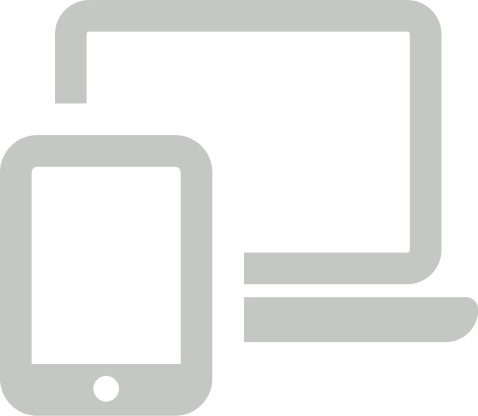
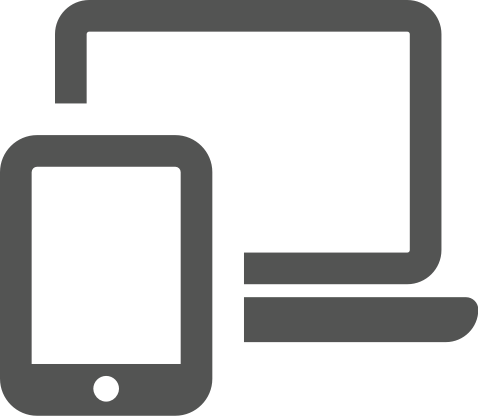
update protocol path to use protocol name

diff --git a/src/renderer/styles/containers/_device-status.scss b/src/renderer/styles/containers/_device-status.scss
@@ -1,7 +1,7 @@
 .device-icon {
   @include reset-button;
 
-  background: center / contain no-repeat url('../images/devices.png');
+  background: center / contain no-repeat url('../images/devices-dark.png');
   cursor: pointer;
   height: 3.4rem;
   margin: 0.5rem spacing('medium');
@@ -16,16 +16,18 @@
     --badge-offset: -0.4rem;
     --badge-size: 1.4rem;
     background-color: var(--color-sea-green);
-    border: 2px solid var(--color-white);
     border-radius: calc(var(--badge-size) * 0.5);
     bottom: var(--badge-offset);
+    display: flex;
+    align-items: center;
+    justify-content: center;
     color: var(--color-white);
-    display: block;
     font-size: 0.9rem;
     height: var(--badge-size);
     line-height: 1.2;
     position: absolute;
     right: var(--badge-offset);
     width: var(--badge-size);
+
   }
 }

diff --git a/src/main/data-managers/ProtocolManager.js b/src/main/data-managers/ProtocolManager.js
@@ -134,14 +134,14 @@ class ProtocolManager {
   importFile(localFilepath = '') {
     return new Promise((resolve, reject) => {
       const parsedPath = path.parse(localFilepath);
+
       if (!parsedPath.base) {
         reject(new RequestError(ErrorMessages.InvalidContainerFile));
         return;
       }
 
       const protocolName = parsedPath.name;
-      const hexName = hexDigest(protocolName);
-      const destPath = this.pathToProtocolFile(`${hexName}${parsedPath.ext}`);
+      const destPath = this.pathToProtocolFile(`${parsedPath.base}`);
       try {
         // If protocol file already exists in Server, do not allow update
         if (fs.existsSync(destPath)) {

diff --git a/src/main/data-managers/ProtocolDB.js b/src/main/data-managers/ProtocolDB.js
@@ -42,6 +42,7 @@ class ProtocolDB extends DatabaseAdapter {
    * @throws If DB save fails
    */
   save(filename, contentsDigest, metadata, { returnOldDoc = false } = {}) {
+    console.log('save', filename);
     return new Promise(async (resolve, reject) => {
       if (!filename || !contentsDigest) {
         reject(new RequestError(ErrorMessages.InvalidContainerFile));

diff --git a/src/renderer/styles/components/_server-panel.scss b/src/renderer/styles/components/_server-panel.scss
@@ -1,8 +1,9 @@
 .server-panel {
-  background-color: var(--color-cyber-grape);
+  background-color: var(--color-platinum--dark);
   padding: spacing(medium);
-  color: var(--text-light);
   width: 100%;
+  border-bottom: 0.8rem solid var(--primary);
+  color: var(--server-panel-text);
 
   &__header {
     margin: spacing(medium);

diff --git a/src/renderer/styles/architect/_theme.scss b/src/renderer/styles/architect/_theme.scss
@@ -12,6 +12,7 @@
   --text-light: var(--color-white); // actually this one is new
   --text-dark: var(--color-charcoal);
   --ring--background: var(--color-navy-taupe);
+  --server-panel-text: rgba(0, 0, 0, .5);
 
   // App Chrome
   --background-dark: var(--color-navy-taupe);

diff --git a/src/renderer/styles/components/_workspace.scss b/src/renderer/styles/components/_workspace.scss
@@ -28,9 +28,8 @@
     }
 
     &.overview-panel {
-      background-color: var(--color-platinum);
-      border-bottom: 0.8rem solid var(--primary);
-
+      color: var(--color-white);
+      background-color: var(--color-cyber-grape);
     }
   }
 }

diff --git a/src/renderer/styles/components/_instructions.scss b/src/renderer/styles/components/_instructions.scss
@@ -18,6 +18,10 @@ $block: instructions;
     background: var(--color-platinum);
     padding: spacing(large);
     border-radius: var(--border-radius);
+
+    p {
+      line-height: 2;
+    }
   }
 
   @include element(steps) {
